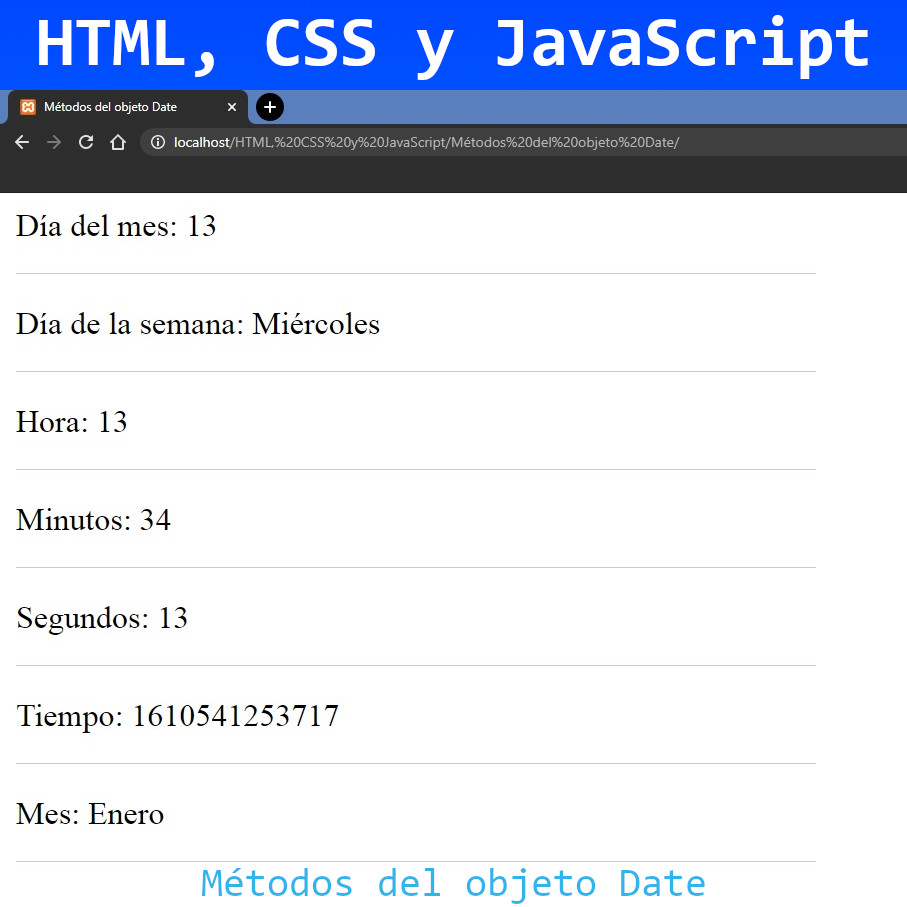
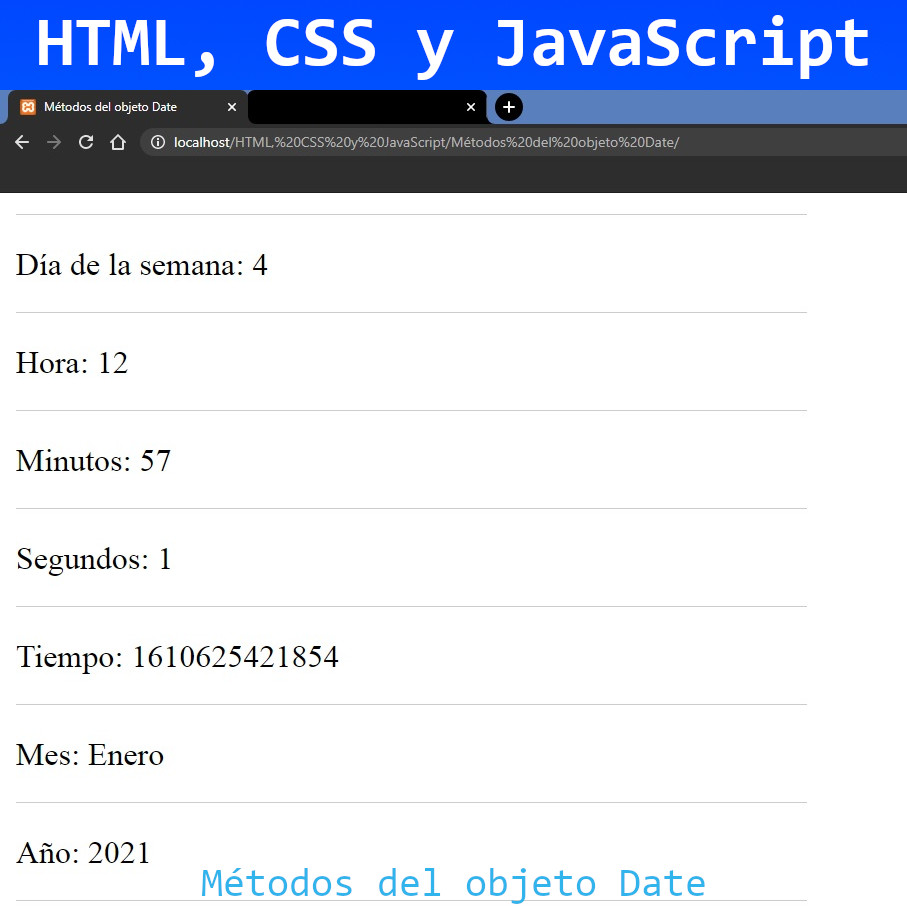
Métodos del objeto Date
Métodos del objeto Date en JavaScript

diff --git a/HTML, CSS y JavaScript/Métodos del objeto Date/js/funciones.js b/HTML, CSS y JavaScript/Métodos del objeto Date/js/funciones.js
@@ -57,3 +57,10 @@ if(mes == 0) {
 document.write("Mes: "+mes);
 // SALTO DE LÍNEA
 document.write("<hr>");
+// VER AÑO
+// coger año de la fecha actual
+var año = fecha.getFullYear();
+// MOSTRAR EN PANTALLA
+document.write("Año: "+año);
+// SALTO DE LÍNEA
+document.write("<hr>");
